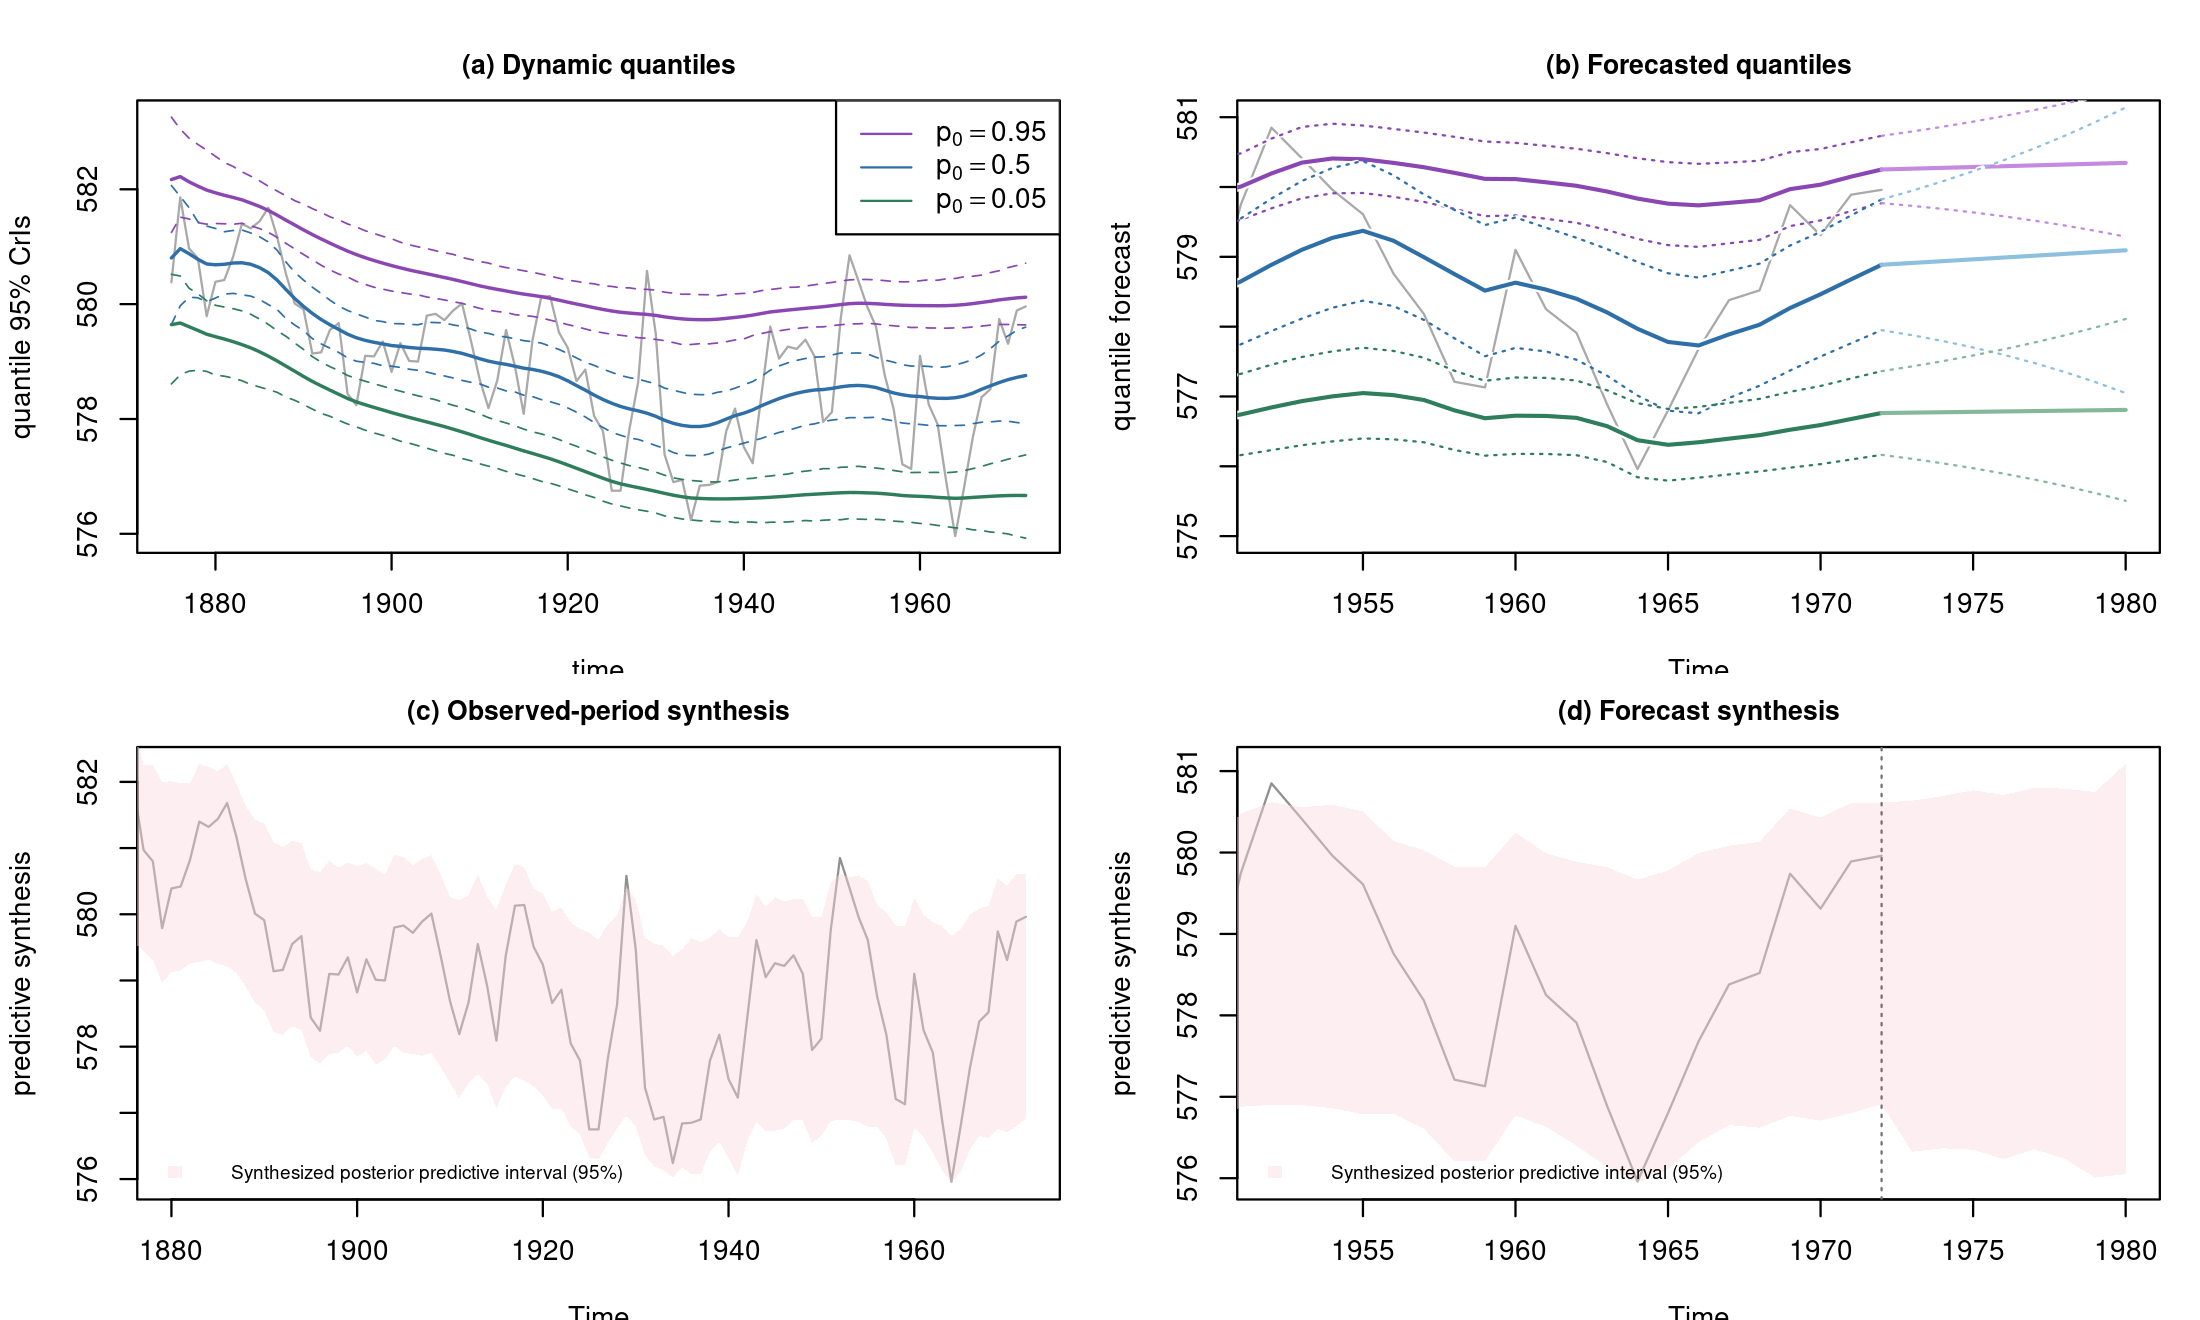
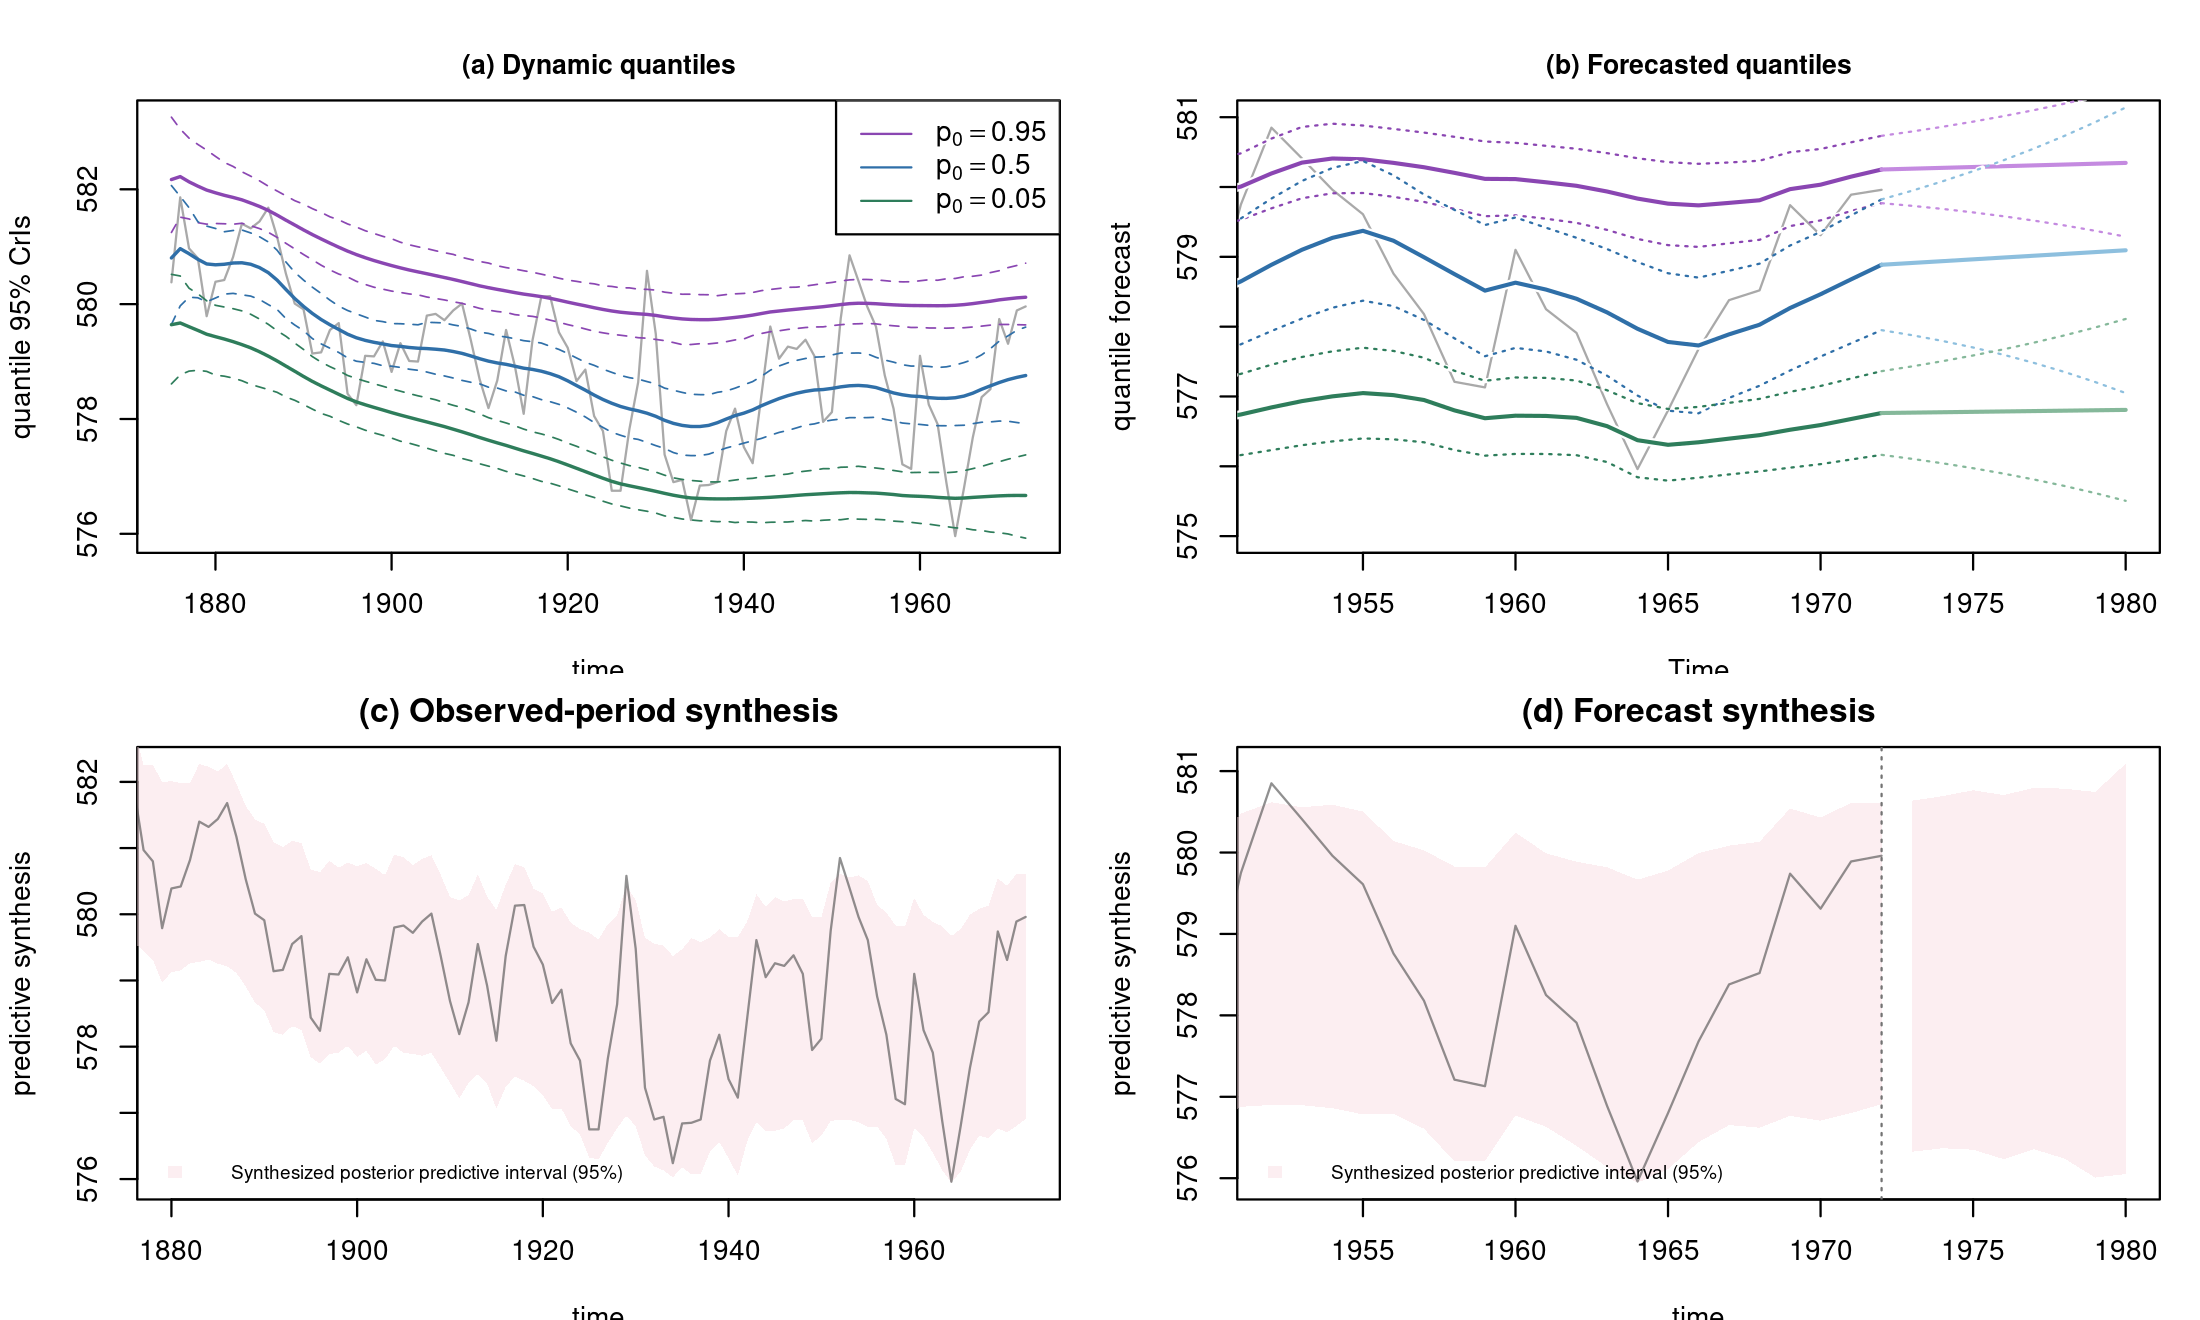
Use synthesis plot method in Example 1

diff --git a/article4.tex b/article4.tex
@@ -399,10 +399,10 @@ where ${\bf a}_{\tilde{t}}(k) = {\bf G}_{\tilde{t}+k} {\bf a}_{\tilde{t}}(k-1)$,
     \code{exalStaticDiagnostics()} & \code{exalStaticDiagnostic} & Compute static fit diagnostics and comparisons.\\
     \addlinespace[2pt]
     \multicolumn{3}{@{}l@{}}{\rule{0pt}{3ex}{\it Predictive synthesis} -- Input dynamic fit/forecast objects or draw matrices} \\
-    \rule{0pt}{3ex}\code{quantileSynthesis()} & \code{list} & Construct a unified posterior predictive distribution from dynamic fit objects, forecast objects with stored draws, or user-supplied draw matrices.\\
+    \rule{0pt}{3ex}\code{quantileSynthesis()} & \code{exdqlmSynthesis} & Construct a plot-ready unified posterior predictive distribution from dynamic fit objects, forecast objects with stored draws, or user-supplied draw matrices.\\
     \bottomrule
 \end{tabular}
-\caption{Overview of the core workflow functions used in this paper. Generic S3 methods defined for the fitted objects listed in the table include \code{plot()}, \code{print()}, and \code{summary()}.}
+\caption{Overview of the core workflow functions used in this paper. Generic S3 methods defined for the returned objects listed in the table include \code{plot()}, \code{print()}, and \code{summary()}.}
 \label{table:flow}
 \end{table}
 
@@ -475,7 +475,7 @@ $GG
 \end{CodeOutput}
 \end{CodeChunk}
 
-To allow variability in the dynamic quantile, we select a single discount factor of $0.9$ to define the evolution covariance matrix ${\bf W}_t$. Discount factors can also be optimized, an example of which we will show in Section \ref{sec:ex2}. We place truncated Student-t priors on the skewness parameters via \code{PriorGamma} as discussed in Section \ref{sec:priors}. In the fits shown here we use \code{n.burn = 2000} and \code{n.mcmc = 3000}. For the final fit shown above (\(p_0=0.05\)), we display \proglang{R} progress updates every 1000 iterations using \code{verbose = TRUE} and \code{verbose.every = 1000}. \RB{Here is a good spot to reference the back-end appendix with respect to the code output below (specifically "mcmc backend" and "GIG backend").}
+To allow variability in the dynamic quantile, we select a single discount factor of $0.9$ to define the evolution covariance matrix ${\bf W}_t$. Discount factors can also be optimized, an example of which we will show in Section \ref{sec:ex2}. We place truncated Student-t priors on the skewness parameters via \code{PriorGamma} as discussed in Section \ref{sec:priors}. In the fits shown here we use \code{n.burn = 2000} and \code{n.mcmc = 3000}. For the final fit shown above (\(p_0=0.05\)), we display \proglang{R} progress updates every 1000 iterations using \code{verbose = TRUE} and \code{verbose.every = 1000}. The first lines of the console output report the active MCMC and GIG-sampling backends; the global backend options that control this routing are summarized in Appendix Table \ref{tab:backendopts}.
 
 \begin{CodeChunk}
 \begin{CodeInput}
@@ -606,7 +606,7 @@ R> syn.obs = quantileSynthesis(
 \end{CodeInput}
 \end{CodeChunk}
 
-\RB{Because the argument \code{return.draws = TRUE} was used when producing the forecast objects (\code{fc05}, \code{fc50}, \code{fc95}) above, each object stores posterior predictive forecast draws in the return value \code{samp.fore}. This allows us to apply the same synthesis step for the eight-step forecast horizon. }
+Because the argument \code{return.draws = TRUE} was used when producing the forecast objects (\code{fc05}, \code{fc50}, \code{fc95}) above, each object stores posterior predictive forecast draws in the return value \code{samp.fore}. This allows us to apply the same synthesis step to the eight-step forecast horizon.
 
 \begin{CodeChunk}
 \begin{CodeInput}
@@ -617,7 +617,22 @@ R> syn.fore = quantileSynthesis(
 \end{CodeInput}
 \end{CodeChunk}
 
-The lower panels of Figure \ref{fig:ex1quants} display the synthesized posterior predictive 95\% interval over the observed and forecast windows. \RB{Are these plots suppose to automatically generated with quantileSynthesis()? If not, I think we should add the code for the plots. }
+The objects \code{syn.obs} and \code{syn.fore} have class \code{exdqlmSynthesis}, so the corresponding \code{plot()} method can be used to display the synthesized posterior predictive intervals. The lower panels of Figure \ref{fig:ex1quants} are produced from these objects as follows.
+
+\begin{CodeChunk}
+\begin{CodeInput}
+R> synth.col = adjustcolor("#F7D6DE", alpha.f = 0.42)
+R> plot(syn.obs, y = LakeHuron, time = time(LakeHuron),
++       xlim = c(1952, 1972), ylab = "predictive synthesis",
++       show.median = FALSE, band.col = synth.col)
+R> plot(syn.obs, y = LakeHuron, time = time(LakeHuron),
++       xlim = c(1952, 1980), ylab = "predictive synthesis",
++       show.median = FALSE, band.col = synth.col)
+R> plot(syn.fore, time = seq(1973, 1980), add = TRUE,
++       show.median = FALSE, band.col = synth.col)
+R> abline(v = 1972, lty = 3)
+\end{CodeInput}
+\end{CodeChunk}
 
 %%%%%%%%%%%%%%%%%%%%%%%%%%%%%%%%%%%%%%%%%
 %%%%%%%%%%%%%%%%%%%%%%%%%%%%%%%%%%%%%%%%%
